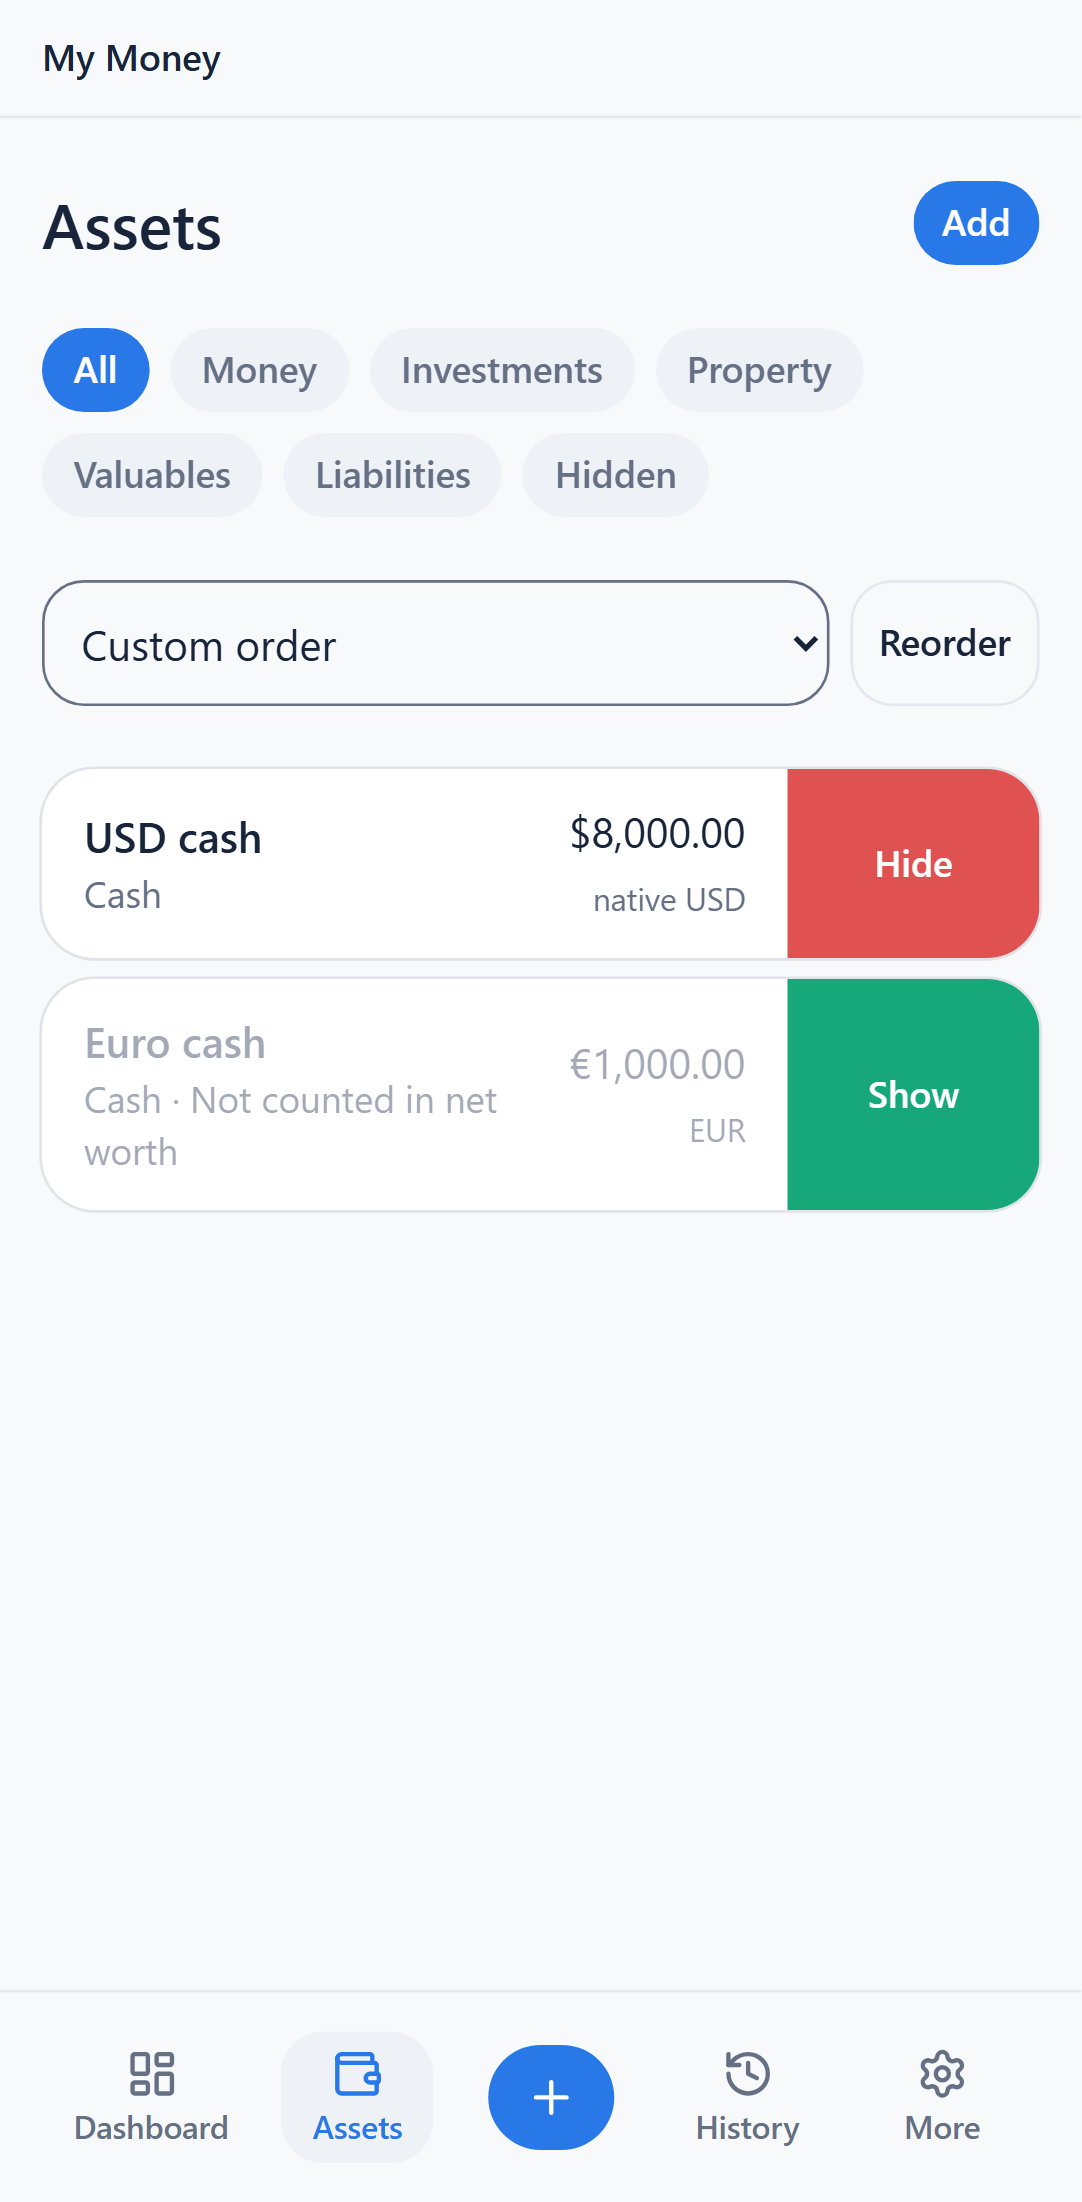
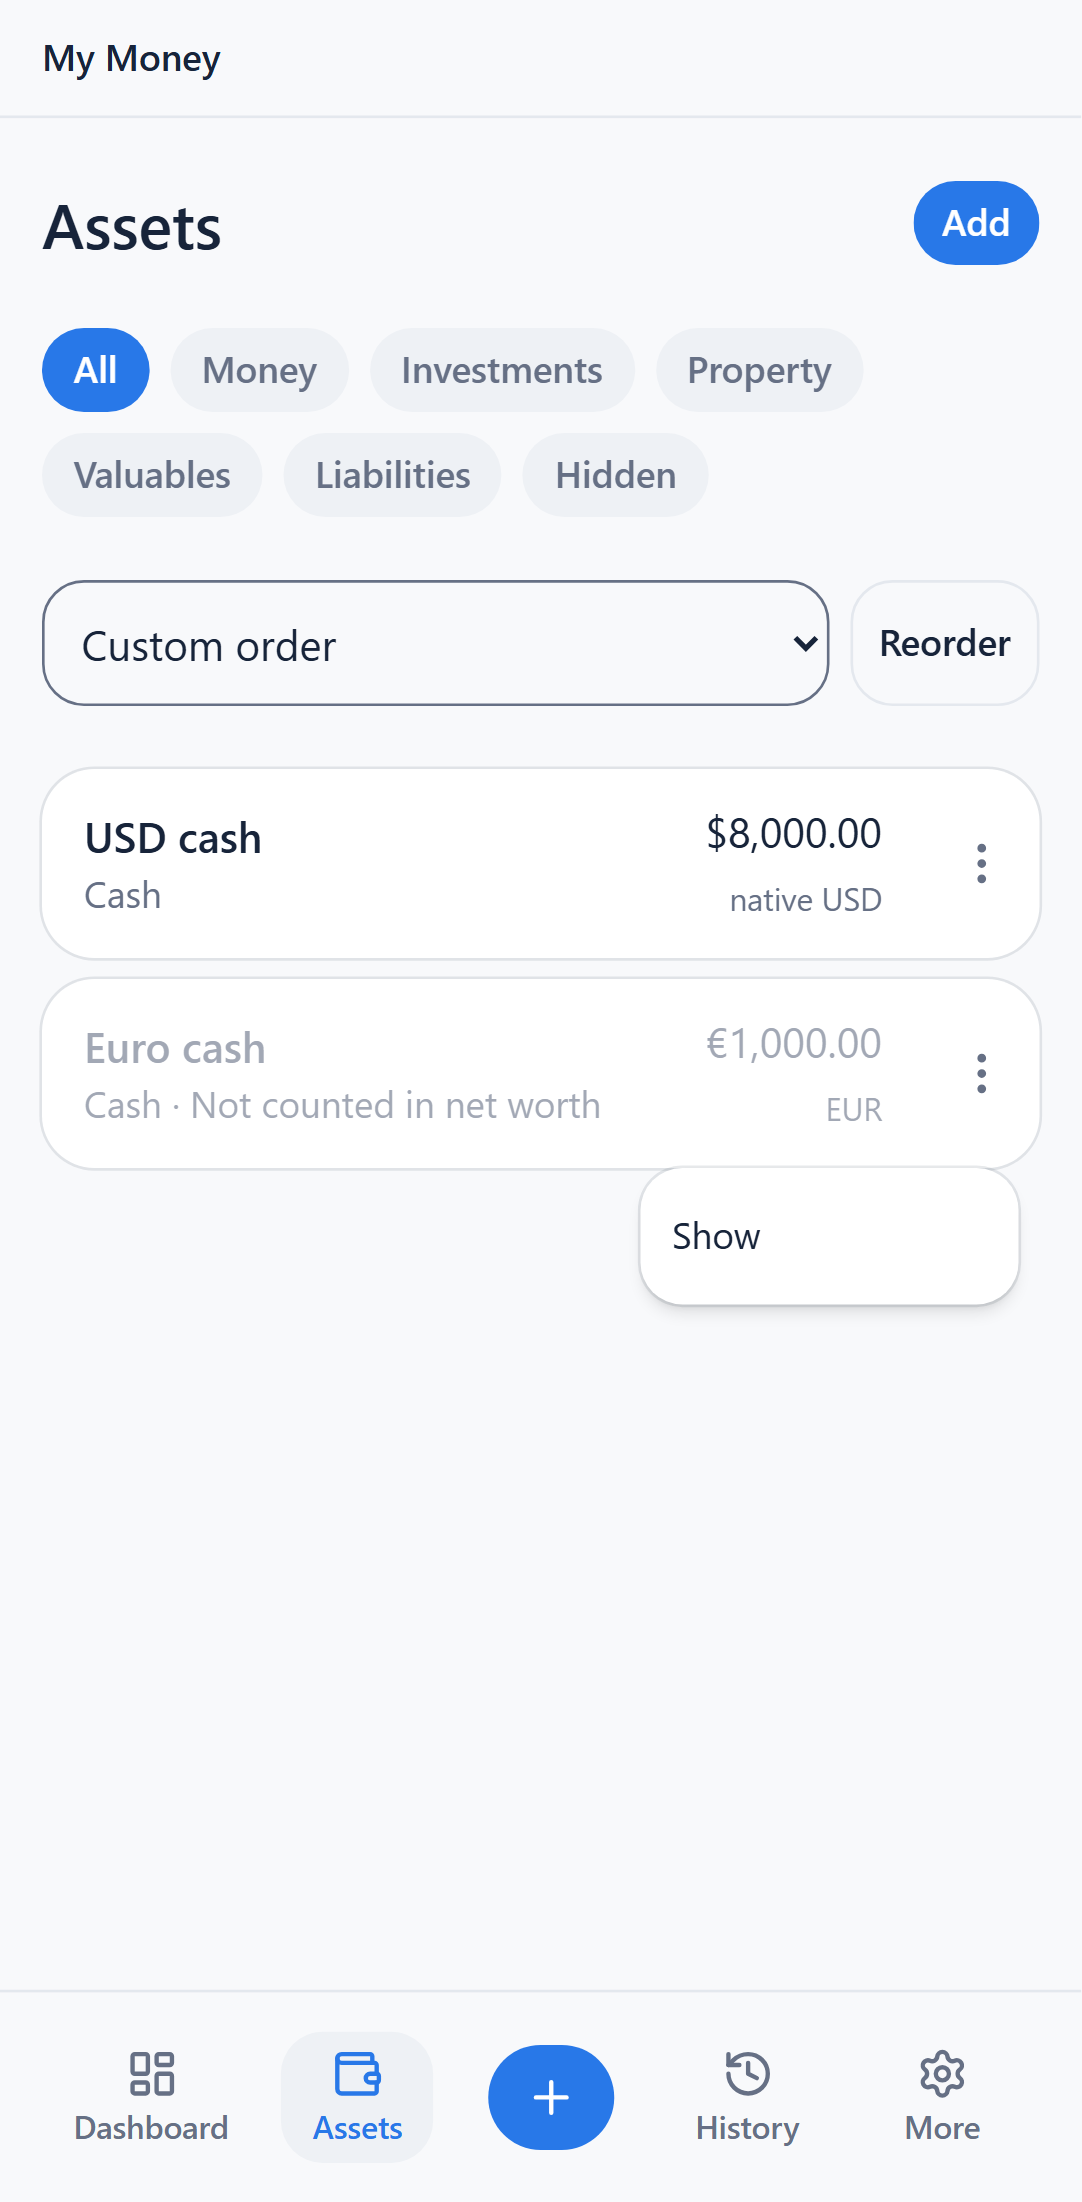
#158: Put Assets Hide/Show in a row overflow menu.

diff --git a/src/features/assets/AssetsScreen.tsx b/src/features/assets/AssetsScreen.tsx
@@ -1,4 +1,4 @@
-import { useEffect, useMemo, useState, type ReactNode } from 'react'
+import { useEffect, useMemo, useRef, useState, type ReactNode } from 'react'
 import { Link } from 'react-router-dom'
 import {
   DndContext,
@@ -14,7 +14,7 @@ import {
   verticalListSortingStrategy,
 } from '@dnd-kit/sortable'
 import { CSS } from '@dnd-kit/utilities'
-import { GripVertical } from 'lucide-react'
+import { EllipsisVertical, GripVertical } from 'lucide-react'
 import {
   ASSET_CLASSES,
   listOwnershipShare,
@@ -103,6 +103,75 @@ function SortableAssetRow({
       </button>
       {children}
     </li>
+  )
+}
+
+function AssetRowMenu({
+  name,
+  excluded,
+  onToggle,
+}: {
+  name: string
+  excluded: boolean
+  onToggle: () => void
+}) {
+  const t = useTranslation()
+  const [open, setOpen] = useState(false)
+  const rootRef = useRef<HTMLDivElement>(null)
+
+  useEffect(() => {
+    if (!open) return
+    function onDocumentPointerDown(event: PointerEvent) {
+      const root = rootRef.current
+      if (root && event.target instanceof Node && root.contains(event.target)) {
+        return
+      }
+      setOpen(false)
+    }
+    document.addEventListener('pointerdown', onDocumentPointerDown)
+    return () =>
+      document.removeEventListener('pointerdown', onDocumentPointerDown)
+  }, [open])
+
+  const actionLabel = excluded
+    ? t.dashboard.showOnPositions
+    : t.dashboard.hideFromPositions
+  const actionAria = excluded
+    ? t.dashboard.showOnPositionsAria(name)
+    : t.dashboard.hideFromPositionsAria(name)
+
+  return (
+    <div ref={rootRef} className="relative shrink-0 self-stretch">
+      <button
+        type="button"
+        className="flex h-full min-w-11 items-center justify-center px-2 text-muted-foreground"
+        aria-label={t.assets.rowMenuAria(name)}
+        aria-haspopup="menu"
+        aria-expanded={open}
+        onClick={() => setOpen((current) => !current)}
+      >
+        <EllipsisVertical className="size-5" />
+      </button>
+      {open ? (
+        <div
+          role="menu"
+          className="absolute right-2 top-full z-30 min-w-36 rounded-lg bg-card py-1 shadow-md ring-1 ring-foreground/10"
+        >
+          <button
+            type="button"
+            role="menuitem"
+            className="w-full px-3 py-3 text-left text-sm"
+            aria-label={actionAria}
+            onClick={() => {
+              setOpen(false)
+              onToggle()
+            }}
+          >
+            {actionLabel}
+          </button>
+        </div>
+      ) : null}
+    </div>
   )
 }
 
@@ -405,34 +474,19 @@ export function AssetsScreen() {
                 return (
                   <li
                     key={asset.id}
-                    className="flex items-stretch overflow-hidden rounded-xl bg-card ring-1 ring-foreground/10"
+                    className="relative flex items-stretch rounded-xl bg-card ring-1 ring-foreground/10"
                   >
                     {inner}
-                    <button
-                      type="button"
-                      className={cn(
-                        'flex w-24 shrink-0 items-center justify-center text-sm font-medium text-white',
-                        excluded
-                          ? 'bg-[var(--chart-investments)]'
-                          : 'bg-destructive',
-                      )}
-                      data-action-tone={excluded ? 'positive' : 'destructive'}
-                      aria-label={
-                        excluded
-                          ? t.dashboard.showOnPositionsAria(asset.name)
-                          : t.dashboard.hideFromPositionsAria(asset.name)
-                      }
-                      onClick={() =>
+                    <AssetRowMenu
+                      name={asset.name}
+                      excluded={excluded}
+                      onToggle={() =>
                         void setTrackingStatus(
                           asset.id,
                           excluded ? 'included' : 'excluded',
                         )
                       }
-                    >
-                      {excluded
-                        ? t.dashboard.showOnPositions
-                        : t.dashboard.hideFromPositions}
-                    </button>
+                    />
                   </li>
                 )
               })}

diff --git a/src/features/assets/AssetsScreen.test.tsx b/src/features/assets/AssetsScreen.test.tsx
@@ -104,9 +104,12 @@ describe('AssetsScreen', () => {
     expect(
       screen.queryByRole('button', { name: 'Hide Old cash' }),
     ).not.toBeInTheDocument()
+    expect(
+      screen.queryByRole('button', { name: 'Actions for Old cash' }),
+    ).not.toBeInTheDocument()
   })
 
-  it('hides from a trailing control and greys the row without opening details (#158)', async () => {
+  it('hides from a ⋮ menu and greys the row without opening details (#158)', async () => {
     const user = userEvent.setup()
     await addNamedAsset('cash', 'Cash', 50, 'EUR')
     render(
@@ -118,7 +121,11 @@ describe('AssetsScreen', () => {
       'href',
       '/assets/a1',
     )
-    await user.click(screen.getByRole('button', { name: 'Hide Broker' }))
+    expect(
+      screen.queryByRole('button', { name: 'Hide Broker' }),
+    ).not.toBeInTheDocument()
+    await user.click(screen.getByRole('button', { name: 'Actions for Broker' }))
+    await user.click(screen.getByRole('menuitem', { name: 'Hide Broker' }))
     await waitFor(() => {
       expect(useAssetStore.getState().assets.find((a) => a.id === 'a1')
         ?.trackingStatus).toBe('excluded')
@@ -127,10 +134,8 @@ describe('AssetsScreen', () => {
     const hidden = screen.getByText('Broker').closest('[data-excluded]')
     expect(hidden).toHaveAttribute('data-excluded', 'true')
     expect(hidden).toHaveClass('opacity-60')
-    const show = screen.getByRole('button', { name: 'Show Broker' })
-    expect(show).toHaveAttribute('data-action-tone', 'positive')
-    expect(listedAssetHrefs()).toEqual(['/assets/cash', '/assets/a1'])
-    await user.click(show)
+    await user.click(screen.getByRole('button', { name: 'Actions for Broker' }))
+    await user.click(screen.getByRole('menuitem', { name: 'Show Broker' }))
     await waitFor(() => {
       expect(useAssetStore.getState().assets.find((a) => a.id === 'a1')
         ?.trackingStatus).toBe('included')
@@ -140,7 +145,7 @@ describe('AssetsScreen', () => {
     ).toHaveAttribute('data-excluded', 'false')
   })
 
-  it('hides the trailing Hide control while reordering (#158)', async () => {
+  it('hides the row menu while reordering (#158)', async () => {
     const user = userEvent.setup()
     await addNamedAsset('cash', 'Cash', 50, 'EUR')
     render(
@@ -149,11 +154,11 @@ describe('AssetsScreen', () => {
       </MemoryRouter>,
     )
     expect(
-      await screen.findByRole('button', { name: 'Hide Broker' }),
+      await screen.findByRole('button', { name: 'Actions for Broker' }),
     ).toBeInTheDocument()
     await user.click(screen.getByRole('button', { name: 'Reorder' }))
     expect(
-      screen.queryByRole('button', { name: 'Hide Broker' }),
+      screen.queryByRole('button', { name: 'Actions for Broker' }),
     ).not.toBeInTheDocument()
   })
 

diff --git a/e2e/validation-screenshots.spec.ts b/e2e/validation-screenshots.spec.ts
@@ -583,25 +583,23 @@ test('capture Assets excluded rows at the bottom (#160)', async ({ page }) => {
   })
 })
 
-test('capture Assets trailing Hide and greyed excluded row (#158)', async ({
+test('capture Assets overflow Hide and greyed excluded row (#158)', async ({
   page,
 }) => {
   await seedValidationFixture(page)
   await page.goto('/assets')
   await expect(page.getByRole('heading', { name: 'Assets' })).toBeVisible()
-  const hideEuro = page.getByRole('button', { name: 'Hide Euro cash' })
-  await expect(hideEuro).toBeVisible()
-  await expect(hideEuro).toHaveAttribute('data-action-tone', 'destructive')
   await expect(page.getByRole('link', { name: /Euro cash/ })).toHaveAttribute(
     'href',
     '/assets/eur-cash',
   )
-  await hideEuro.click()
-  const showEuro = page.getByRole('button', { name: 'Show Euro cash' })
-  await expect(showEuro).toBeVisible()
-  await expect(showEuro).toHaveAttribute('data-action-tone', 'positive')
+  await page.getByRole('button', { name: 'Actions for Euro cash' }).click()
+  await expect(page.getByRole('menuitem', { name: 'Hide Euro cash' })).toBeVisible()
+  await page.getByRole('menuitem', { name: 'Hide Euro cash' }).click()
   await expect(page.locator('[data-excluded="true"]')).toBeVisible()
   await expect(page.getByRole('heading', { name: 'Assets' })).toBeVisible()
+  await page.getByRole('button', { name: 'Actions for Euro cash' }).click()
+  await expect(page.getByRole('menuitem', { name: 'Show Euro cash' })).toBeVisible()
   await page.screenshot({
     path: join(outDir, '158-assets-hide-greyed.png'),
     fullPage: true,

diff --git a/src/data/issueRcas.ts b/src/data/issueRcas.ts
@@ -43,8 +43,8 @@ export const issueRcas: IssueRca[] = [
       en: 'Assets list: Hide/Show like Dashboard Positions',
       ru: 'Список активов: «Скрыть»/«Показать» как в позициях на Сводке',
     },
-    en: 'The whole Assets row was a details link, so Dashboard tap-to-reveal would steal open. Trailing Hide/Show is a sibling of the link; excluded rows use the same greyed opacity as Positions.',
-    ru: 'Вся строка активов была ссылкой на карточку, поэтому нажатие как на Сводке перехватывало бы открытие. «Скрыть»/«Показать» справа рядом со ссылкой; excluded те же серые, что позиции.',
+    en: 'The whole Assets row was a details link, so Dashboard tap-to-reveal would steal open. Option 2 is a ⋮ menu beside the link (not a permanent red Hide strip); excluded rows use the same greyed opacity as Positions.',
+    ru: 'Вся строка активов была ссылкой на карточку, поэтому нажатие как на Сводке перехватывало бы открытие. Вариант 2 — меню ⋮ рядом со ссылкой (не постоянная красная полоса «Скрыть»); excluded те же серые, что позиции.',
   },
   {
     issue: 157,

diff --git a/src/data/releaseNotes.ts b/src/data/releaseNotes.ts
@@ -10,6 +10,13 @@ export interface ReleaseNote {
 /** User-facing changelog, most-recent-first. Add a row when an issue ships. */
 export const releaseNotes: ReleaseNote[] = [
   {
+    version: 174,
+    issue: 158,
+    date: '2026-08-30T18:00:00+03:00',
+    en: 'On Assets, Hide and Show are in a ⋮ menu on each row, not a red strip. Tap still opens details; hidden rows stay greyed.',
+    ru: 'На экране активов «Скрыть» и «Показать» в меню ⋮ у строки, а не красной полосой. Нажатие по-прежнему открывает карточку; скрытые остаются серыми.',
+  },
+  {
     version: 173,
     issue: 161,
     date: '2026-08-30T17:50:00+03:00',

diff --git a/src/i18n/ru.ts b/src/i18n/ru.ts
@@ -99,6 +99,7 @@ export const ru: Dictionary = {
     sortAmountDesc: 'Сумма: по убыванию',
     reorderAria: (name) => `Изменить порядок: ${name}`,
     enterReorderMode: 'Порядок',
+    rowMenuAria: (name) => `Действия: ${name}`,
   },
   asset: {
     classes: {

diff --git a/src/i18n/en.ts b/src/i18n/en.ts
@@ -96,6 +96,7 @@ export const en: Dictionary = {
     sortAmountDesc: 'Amount: high to low',
     reorderAria: (name) => `Reorder ${name}`,
     enterReorderMode: 'Reorder',
+    rowMenuAria: (name) => `Actions for ${name}`,
   },
   asset: {
     classes: {

diff --git a/src/i18n/Dictionary.ts b/src/i18n/Dictionary.ts
@@ -94,6 +94,7 @@ export interface Dictionary {
     sortAmountDesc: string
     reorderAria: (name: string) => string
     enterReorderMode: string
+    rowMenuAria: (name: string) => string
   }
   asset: {
     classes: Record<AssetClass, string>

diff --git a/docs/issues-priority.md b/docs/issues-priority.md
@@ -26,7 +26,7 @@ _After the four web flows feel good. Android wraps this app; iOS does not._
 | # | Status | Issue | Notes |
 |---|--------|-------|-------|
 | [#157](https://github.com/ZhannaM85/my-money/issues/157) | 🔲 Open | Allocation: Show/Hide needs three or four taps (Dashboard is one tap) | Device log: reveal-click works; extra taps are pointerdown without click after Hide/ensureRates re-render. |
-| [#158](https://github.com/ZhannaM85/my-money/issues/158) | 🔍 Pending validation | Assets list: Hide/Show like Dashboard Positions | Option 2: trailing Hide/Show, tap still opens details. Excluded rows greyed. `excluded`, not archive. |
+| [#158](https://github.com/ZhannaM85/my-money/issues/158) | 🔍 Pending validation | Assets list: Hide/Show like Dashboard Positions | Option 2: ⋮ overflow with Hide/Show, tap still opens details. Excluded rows greyed. `excluded`, not archive. |
 | [#160](https://github.com/ZhannaM85/my-money/issues/160) | 🔍 Pending validation | Assets list: show excluded assets at the bottom | Included first; excluded after, still sorted within the group. Archived stays on its chip. |
 | [#161](https://github.com/ZhannaM85/my-money/issues/161) | 🔍 Pending validation | FX debug: save log as a .txt file | Copy is too big for Telegram/email. Download/share `my-money-debug.txt`. |
 

diff --git a/docs/VALIDATION_SCREENSHOTS.md b/docs/VALIDATION_SCREENSHOTS.md
@@ -52,7 +52,7 @@ gh issue edit 108 --add-label validation
 | `157-allocation-first-tap-show.png` | Allocation · first tap on holding reveals Show (#157) |
 | `159-positions-show-green.png` | Dashboard Positions · Show action green (#159) |
 | `160-assets-excluded-at-bottom.png` | Assets · excluded rows at the bottom (#160) |
-| `158-assets-hide-greyed.png` | Assets · trailing Hide/Show; excluded row greyed (#158) |
+| `158-assets-hide-greyed.png` | Assets · ⋮ menu Hide/Show; excluded row greyed (#158) |
 | `161-fx-debug-save-txt.png` | Settings · FX debug Save .txt (#161) |
 | `147-positions-hidden-from-total.png` | Dashboard · hidden asset dropped from total (#147) |
 | `150-allocation-swipe-hide.png` | Allocation · tap expanded holding to reveal Hide (#150) |
